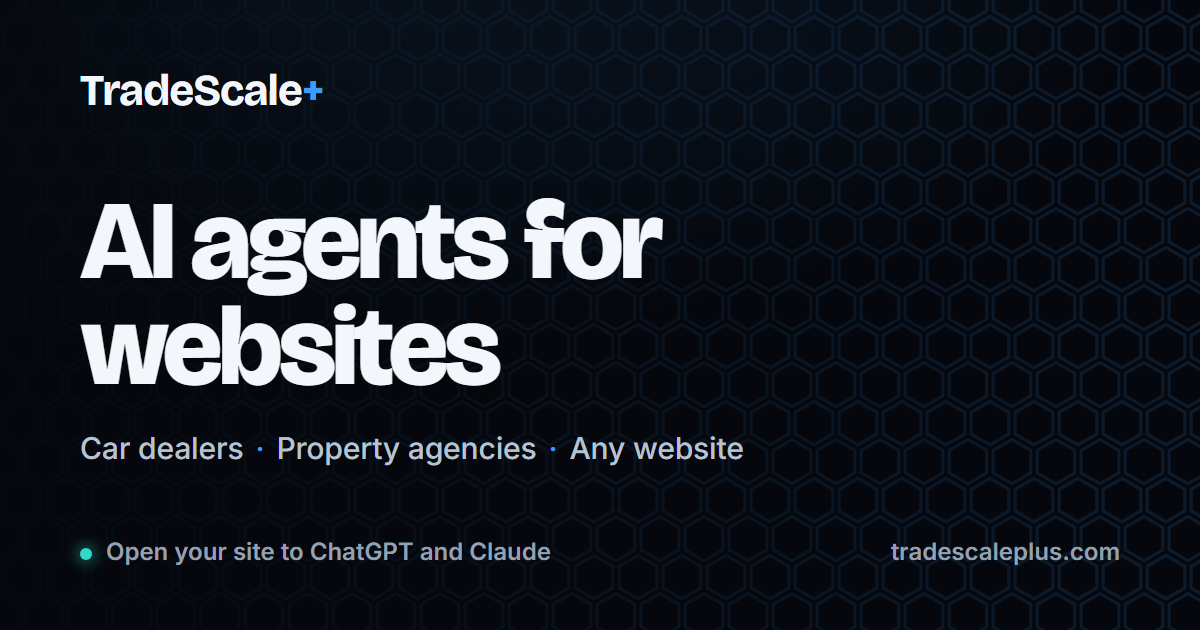
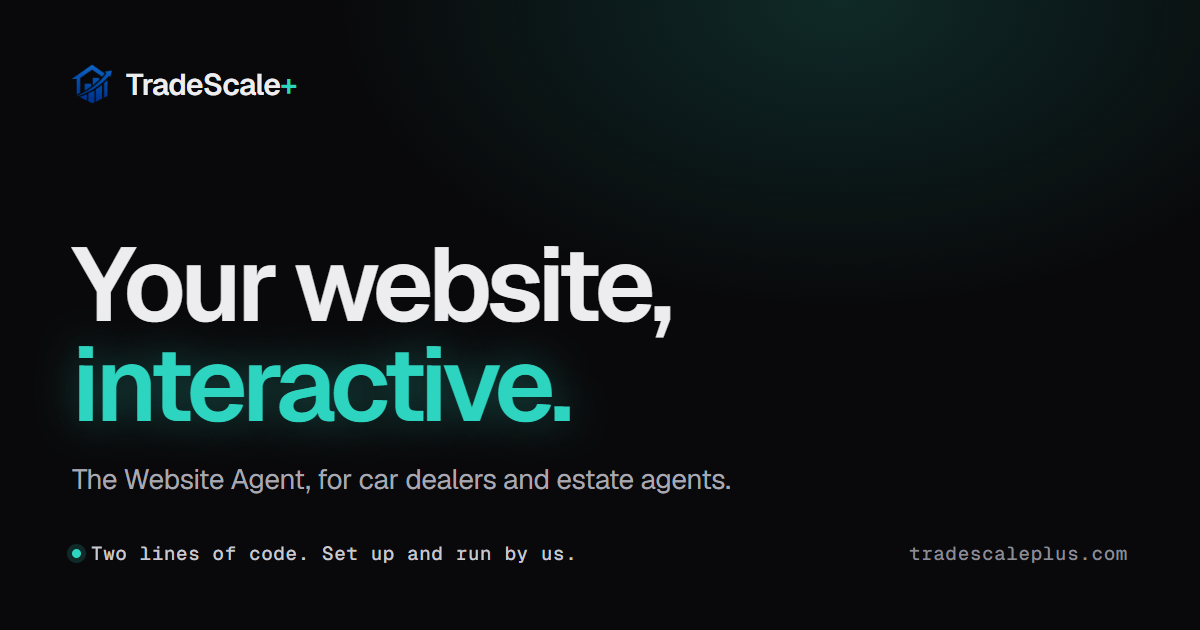
A new link preview card: your website, interactive
The card every page shares when its link is posted said "AI agents for websites". It
now says "Your website, interactive." with the Website Agent for car dealers and estate
agents, in the rebuilt pages' look. The old card is kept in archive/.

diff --git a/archive/README.md b/archive/README.md
@@ -2,3 +2,6 @@
 
 Stylesheets from earlier versions of the site, kept for reference (archived 11 Oct 2026). No page uses them: every
 page carries its own styles.
+
+`old-og-car.png`, `old-og-image-car-499.png` (4 Nov 2026) and `old-og-card-ai-agents.png` (24 Nov 2026, the "AI agents for
+websites" card) are earlier link preview images. Every page now uses `og-card.png`: "Your website, interactive."
